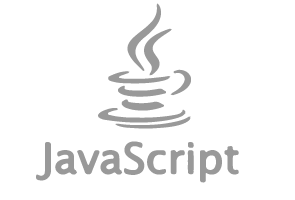
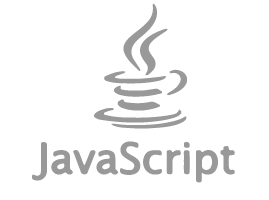
site changes

Changed region(s): [[0.3271, 0.0, 0.7138, 0.66], [0.1487, 0.69, 0.8922, 0.93], [0.119, 0.87, 0.1487, 0.9]]

diff --git a/style.css b/style.css
@@ -1,6 +1,13 @@
+
+
 body{
   box-sizing: border-box;
-  width:100%;
+  width: 100%;
+  margin: 0;
+  padding: 0;
+  top: 0;
+  left: 0;
+
 }
 .banner{
   width:100%;
@@ -43,7 +50,7 @@ h1{
   width:150px;
   height:40px;
   text-align: center;
-  background-color: rgb(254,232,52);
+  background-color: #fedb00;
   color:white;
   font-family: 'Montserrat', sans-serif;
   font-size: 13px;
@@ -62,21 +69,25 @@ h1{
   width:100%;
   height:24%;
   padding-bottom:6%;
+
 }
 .about-section{
+  background-color:rgb(226,225,219);
+  color: rgb(57,58,51);
   width:100%;
   height:20%;
   padding-bottom:5%;
-  padding-top: 5%;
-  background-color: lightGrey;
+  padding-top: 2%;
+  background-color:rgb(245,245,235);
 
 }
 .section-header{
   font-size:35px;
-  margin:7% 7% 4% 7%;
+  margin:4% 7% 4% 7%;
   letter-spacing:.02em;
   text-transform: uppercase;
   font-weight: 500;
+  color:rgb(57,58,51);
 }
 .about-p{
   font-family: 'Montserrat', sans-serif;
@@ -92,6 +103,8 @@ font-family: 'Montserrat', sans-serif;
 width:100%;
  margin:auto;
  padding-bottom:6%;
+ color: rgb(57,58,51);
+
 
 }
 
@@ -120,20 +133,23 @@ width:100%;
   border:1px solid grey;
 
 }
-.portfolio-image:hover{
-  background-color: grey;
-}
+
 .portfolio{
+  margin-top:5%;
   text-align: center;
+  line-height: 1.5em;
+  color:rgb(57,58,51);
+
+
   /* margin-bottom:2%; */
 }
 
 .see-button{
   width:150px;
-  height:40px;
+  height:39px;
   text-align: center;
   font-family: 'Montserrat', sans-serif;
-  font-size: 10px;
+  font-size: 12px;
   font-weight: 700;
   letter-spacing: .12em;
   text-transform: uppercase;
@@ -141,16 +157,15 @@ width:100%;
   /* border-radius: 5px; */
   border: 1px solid black;
   margin:15px  auto;
+  padding:3px;
+
 }
-.see-button-text{
-  padding-top:9px;
-  /* background-color: red; */
-}
+
 .button:hover{
   background-color: lightgrey;
 }
 .see-button:hover{
-  background-color: lightGrey;
+  background-color: rgb(226,225,219);
 }
 .col-3-container{
 font-family: 'Montserrat', sans-serif;
@@ -174,14 +189,17 @@ width:100%;
 }
 
 .skills-image{
-  width:100%;
-  max-width: 150px;
-  /* margin-left:17%; */
+  /* width:100%; */
+max-height: 100px;
+max-width: 200px;
 }
 
 .footer-header{
   font-size:35px;
   /* margin-left:7%; */
+  margin-right:7%;
+  margin-bottom: 2%;
+  color: rgb(57,58,51);
  letter-spacing:.02em;
   text-transform: uppercase;
   font-weight: 500;
@@ -189,14 +207,15 @@ width:100%;
 .footer-section{
   width:100%;
   height:10%;
-  padding:5% 7% 3% 7%;
-  /* background-color: lightGrey; */
+  padding:5% 0 3% 7%;
+  background-color:rgb(226,225,219);
 }
 
 .contact-image{
   margin:5% 2% 2% 0;
-  max-width: 50px;
+  max-height: 50px;
 }
+
 
 ul{
   list-style-type: none;
@@ -271,19 +290,21 @@ li{
 
     .footer-section{
       margin:0 auto;
-      width:47%;
+      padding-left: 0;
+      padding-right: 0;
     }
 
     .footer-header{
       font-size:25px;
       text-align: center;
+      margin: 6% auto;
     }
     .image-container{
       text-align: center;
     }
     .contact-image{
-      max-width: 30px;
-      margin: 0 15px;
+      max-height: 35px;
+      margin: 0 10px;
       /* margin:0 auto; */
     }
 

diff --git a/index.html b/index.html
@@ -78,20 +78,6 @@
                </div>
              </div>
 
-             <div class="col-4-container">
-               <div class="row">
-                 <div class="col-4">
-                   <img src="assets/rascon.png" class="portfolio-image" alt='rascon'/>
-                   <p class="portfolio">
-                     A landing page design for a small business
-                   </p>
-                    <div class='see-button' id="rascon">
-                      <p>Rascon Associates</p>
-                    </div>
-                 </div>
-
-               </div>
-             </div>
     </div>
     <!-- MY SKILLS -->
     <div class='section'>
@@ -171,7 +157,7 @@
   <div class='image-container'>
     <img src='assets/github.png' class="contact-image" id="github"/>
     <img src='assets/linkedin.png'class="contact-image" id="linkedButton"/>
-    <img src='assets/mail.png'class="contact-image" id="mailTo"/>
+    <img src='assets/email.png'class="contact-image" id="mailTo"/>
   </div>
 </div>
 
